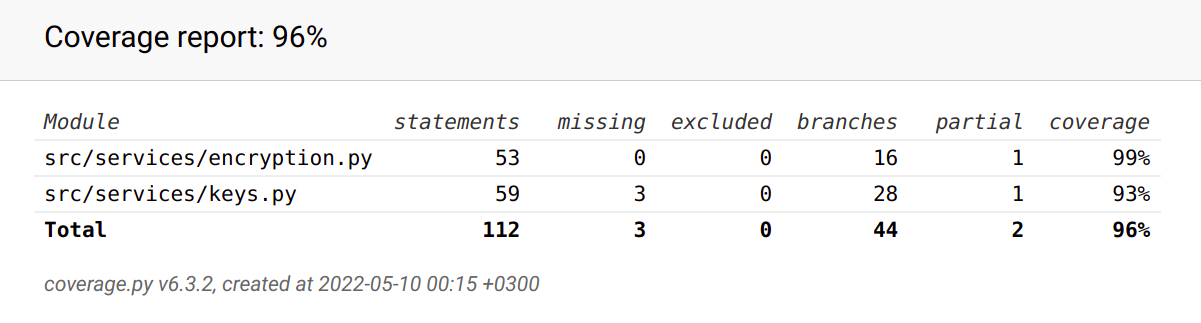
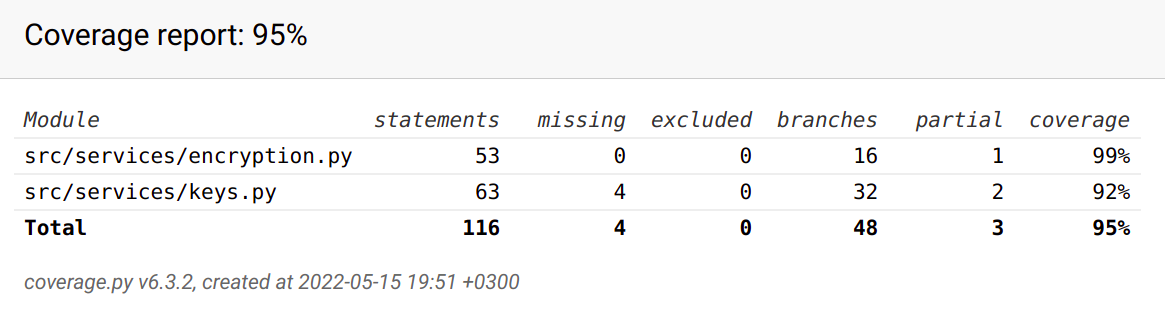
Update testing document

diff --git a/documentation/testing.md b/documentation/testing.md
@@ -3,7 +3,7 @@
 ## Unit testing
 
 The software has automated unit tests for the functions that are used in key creation, encryption, and decryption.
-Test coverage is 96 %.
+Test coverage is 95 %.
 
 ![](./images/coverage_report.png)
 
@@ -35,17 +35,17 @@ Key creation is the most complex task of this software. The performance has been
 
 | Creation time | Seconds |
 |:--------------|:-------:|
-| Average       | 0.238   |
-| Minimum       | 0.073   |
-| Maximum       | 0.624   |
+| Average       | 0.249   |
+| Minimum       | 0.065   |
+| Maximum       | 0.818   |
 
 ### 2048-bit keys:
 
 | Creation time | Seconds |
 |:--------------|:-------:|
-| Average       | 2.570   |
-| Minimum       | 0.607   |
-| Maximum       | 8.478   |
+| Average       | 2.370   |
+| Minimum       | 0.590   |
+| Maximum       | 8.181   |
 
 ### Running the performance test 
 
